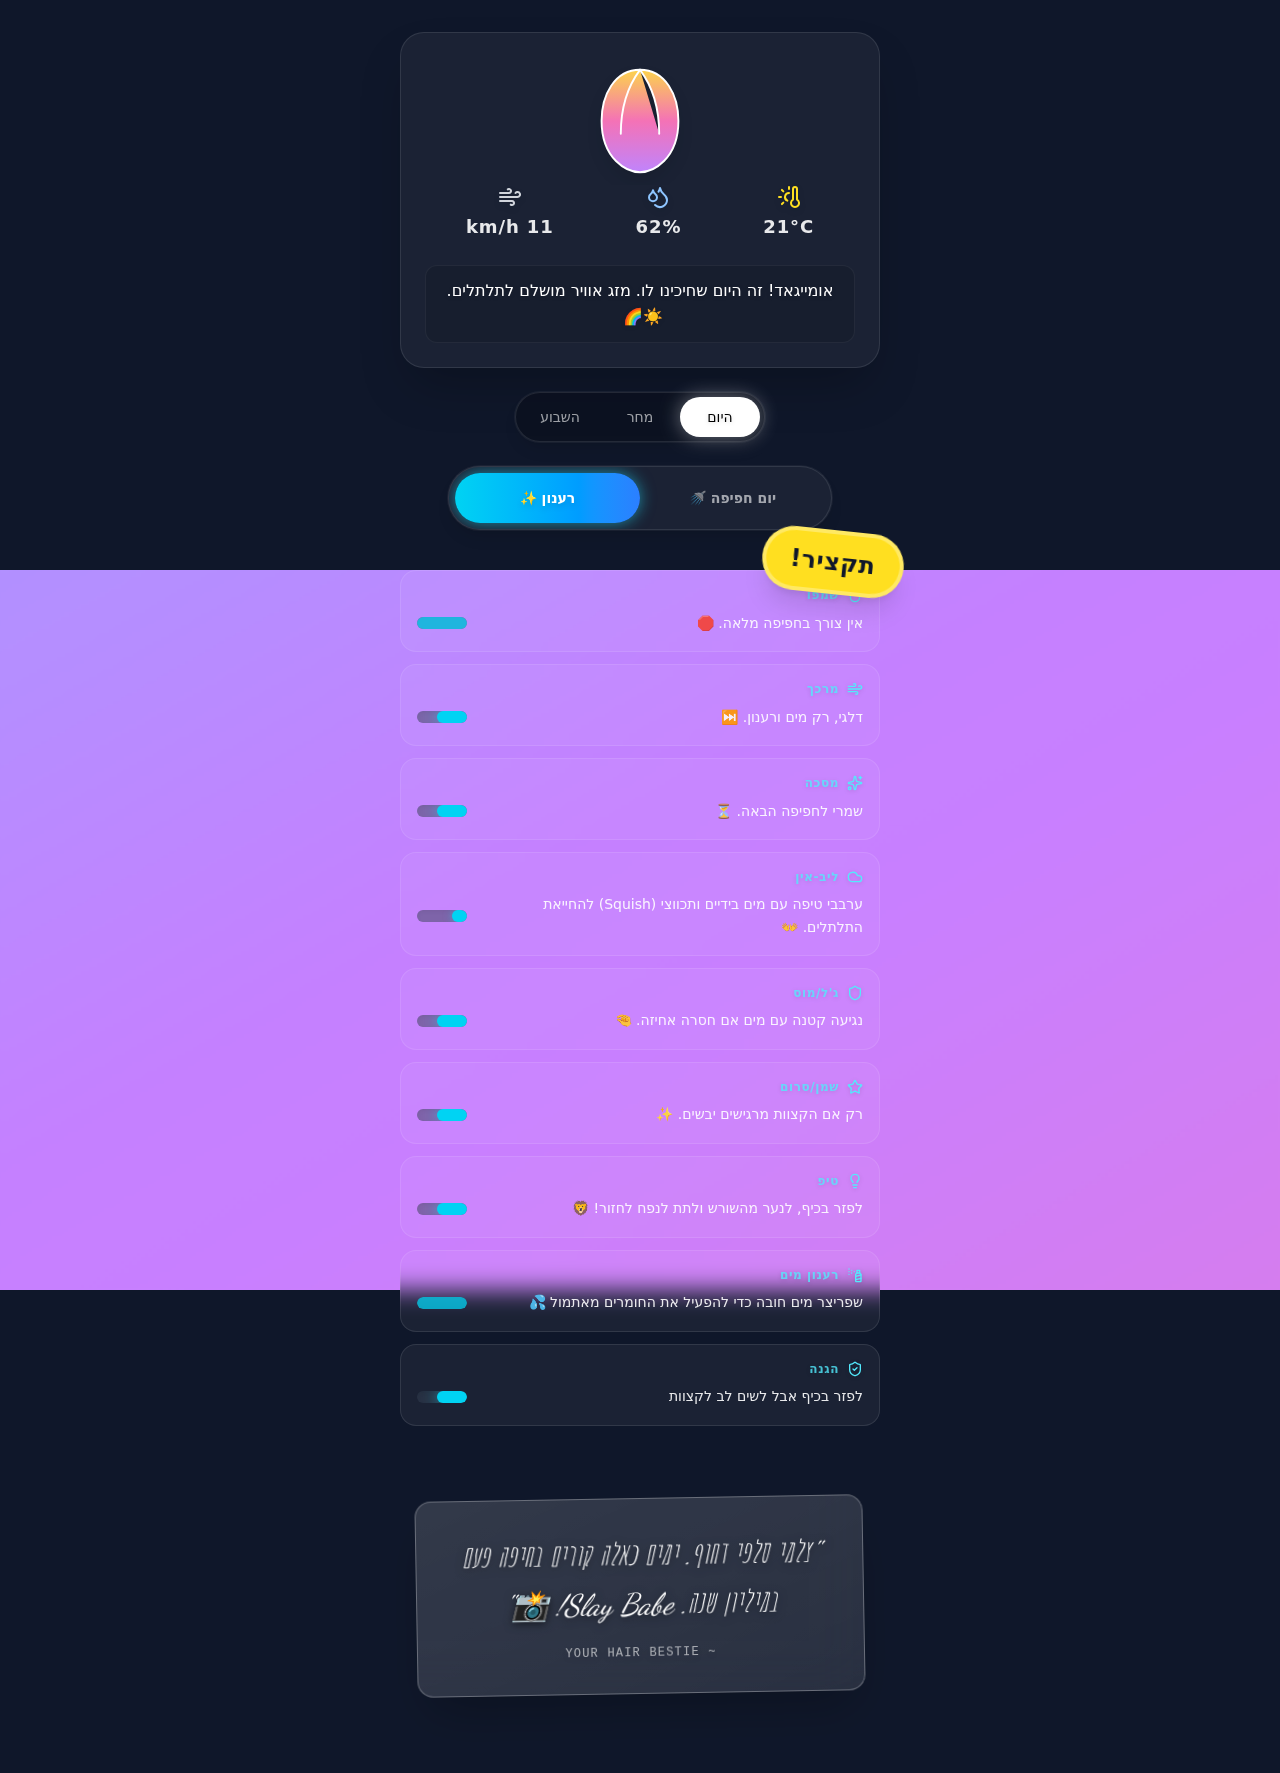
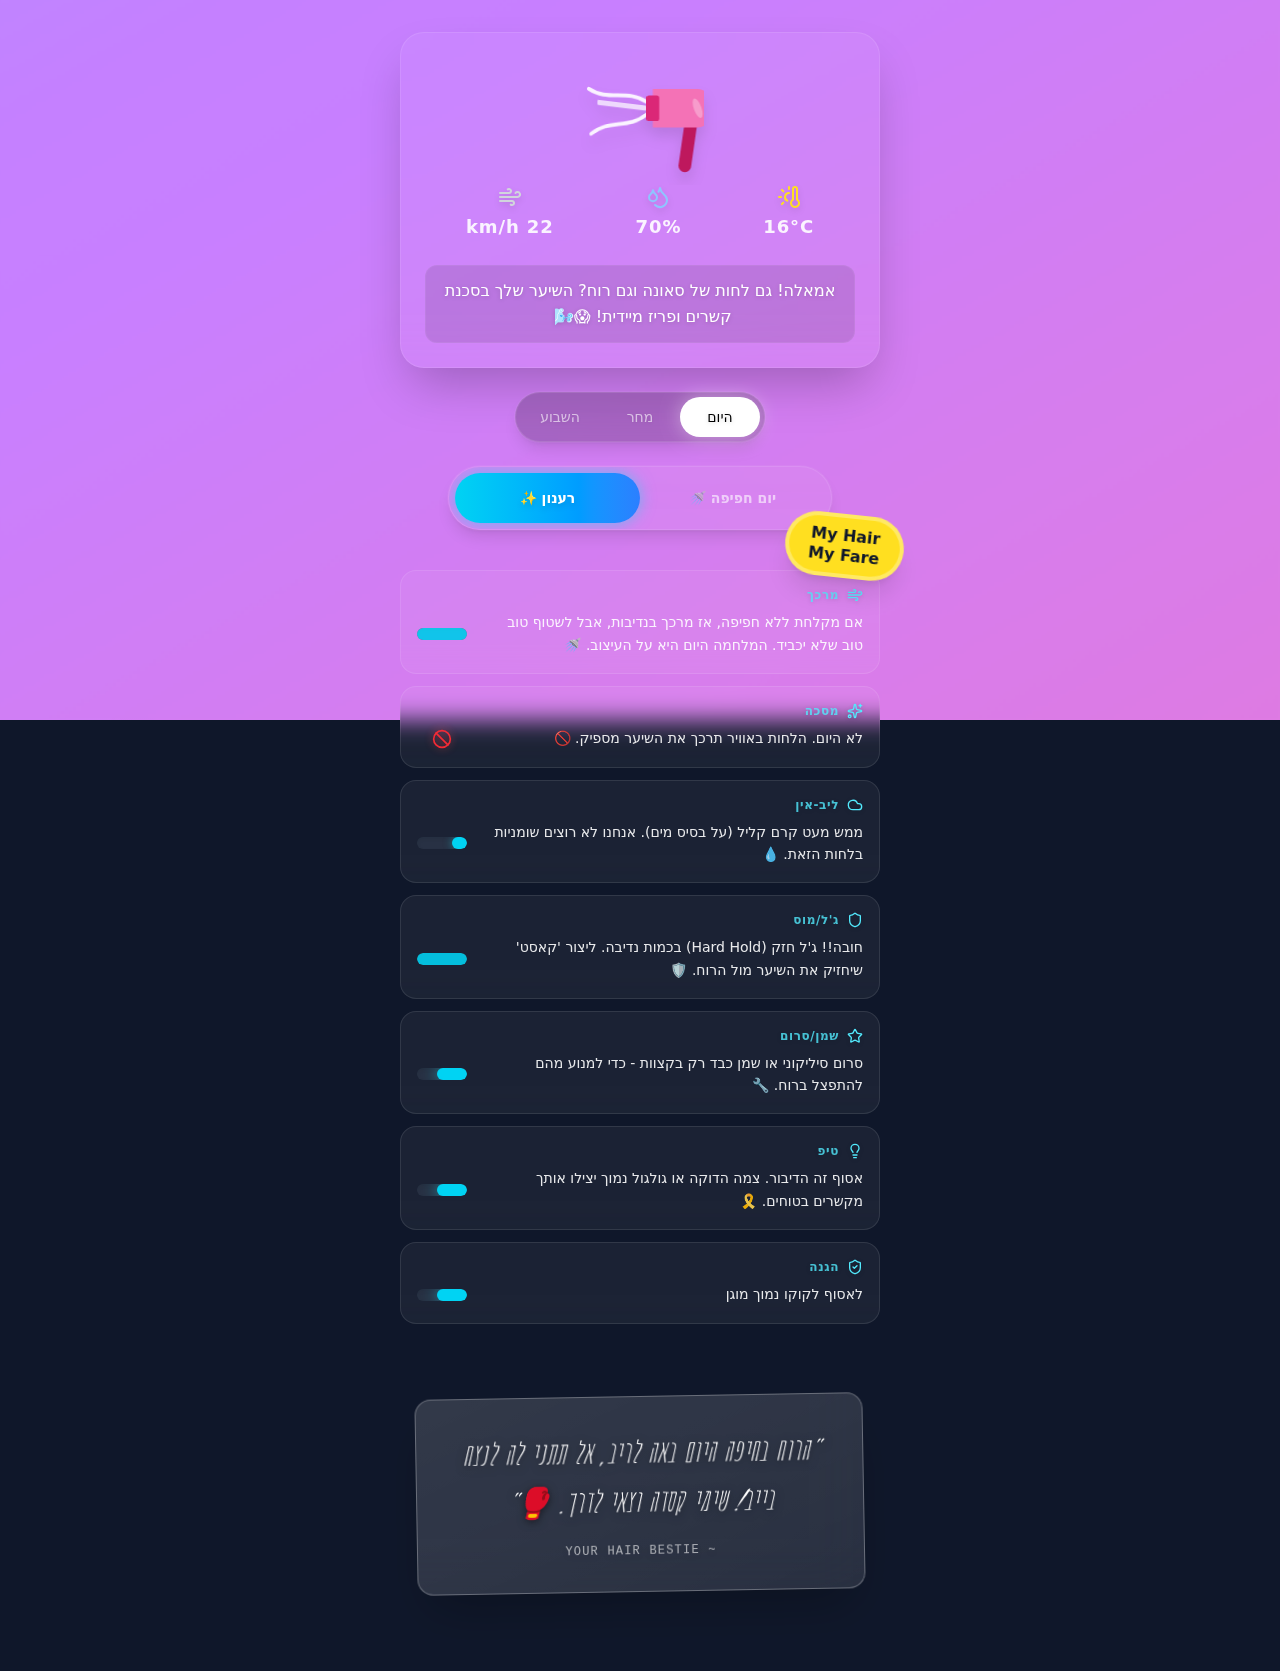
Update weather summary container, yellow sticker, and hair dryer animation

diff --git a/src/components/MainStatusCard.jsx b/src/components/MainStatusCard.jsx
@@ -1,23 +1,8 @@
 import React, { useEffect, useState } from 'react';
 import { Wind, Droplets, ThermometerSun, AlertTriangle } from 'lucide-react';
+import { WEATHER_DATA } from '../data';
 
 const MainStatusCard = ({ data, summaryText, uvAlert, conditionId }) => {
-  // Determine ball color/style based on condition
-  let ballClass = '';
-  switch (conditionId) {
-    case 'PERFECT_DAY':
-      ballClass = 'from-cyan-300 via-blue-400 to-purple-400 shadow-[0_0_30px_rgba(103,232,249,0.6)]';
-      break;
-    case 'SAUNA_STORM':
-      ballClass = 'from-slate-500 via-gray-600 to-slate-700 shadow-[0_0_20px_rgba(100,116,139,0.6)]';
-      break;
-    case 'SAUNA_CALM':
-      ballClass = 'from-orange-200 via-amber-200 to-emerald-200 shadow-[0_0_30px_rgba(251,191,36,0.6)] opacity-80 blur-sm';
-      break;
-    default:
-      ballClass = 'from-gray-300 to-white';
-  }
-
   // Typewriter effect logic
   const [displayedText, setDisplayedText] = useState('');
 
@@ -53,34 +38,67 @@ const MainStatusCard = ({ data, summaryText, uvAlert, conditionId }) => {
         <div className="flex justify-center items-center py-2 relative z-0 h-32 overflow-hidden">
              <style>
                 {`
-                  @keyframes hairWave {
-                    0% { transform: skewX(-15deg) rotate(-5deg); }
-                    50% { transform: skewX(15deg) rotate(5deg); }
-                    100% { transform: skewX(-15deg) rotate(-5deg); }
+                  @keyframes threadFlutter {
+                    0% { transform: scaleX(1) skewY(0deg); }
+                    50% { transform: scaleX(0.9) skewY(15deg); }
+                    100% { transform: scaleX(1) skewY(0deg); }
+                  }
+                  @keyframes threadFlutterReverse {
+                    0% { transform: scaleX(1) skewY(0deg); }
+                    50% { transform: scaleX(0.9) skewY(-15deg); }
+                    100% { transform: scaleX(1) skewY(0deg); }
                   }
                 `}
              </style>
              <svg
                 viewBox="0 0 100 100"
                 className="w-32 h-32 drop-shadow-xl"
-                style={{
-                    animation: `hairWave ${Math.max(0.5, 30 / (parseInt(data.wind) || 5))}s ease-in-out infinite transform-origin-top`
-                }}
              >
-                <path
-                    d="M50 10 C30 10 20 30 20 50 C20 80 40 90 50 90 C60 90 80 80 80 50 C80 30 70 10 50 10 Z M50 10 Q35 30 35 60 M50 10 Q65 30 65 60"
-                    fill="url(#hairGradient)"
-                    stroke="white"
-                    strokeWidth="1.5"
-                    strokeLinecap="round"
-                />
-                <defs>
-                    <linearGradient id="hairGradient" x1="0%" y1="0%" x2="0%" y2="100%">
-                        <stop offset="0%" stopColor="#fcd34d" /> {/* Amber-300 */}
-                        <stop offset="50%" stopColor="#f472b6" /> {/* Pink-400 */}
-                        <stop offset="100%" stopColor="#c084fc" /> {/* Purple-400 */}
-                    </linearGradient>
-                </defs>
+                {/* Threads Group - Positioned at Nozzle */}
+                <g transform="translate(55, 40)">
+                     {/* Thread 1 (Top) */}
+                     <g style={{
+                            animation: `threadFlutter ${Math.max(0.2, 20 / (parseInt(data.wind) || 5))}s ease-in-out infinite`,
+                            transformOrigin: "0 0"
+                        }}>
+                        <path
+                            d="M 0 -5 C -15 -15, -30 -5, -45 -15"
+                            stroke="white" strokeWidth="3" fill="none" strokeLinecap="round" opacity="0.9"
+                        />
+                     </g>
+
+                     {/* Thread 2 (Bottom) */}
+                     <g style={{
+                            animation: `threadFlutterReverse ${Math.max(0.2, 25 / (parseInt(data.wind) || 5))}s ease-in-out infinite`,
+                            transformOrigin: "0 0"
+                        }}>
+                         <path
+                            d="M 0 5 C -15 15, -30 5, -45 15"
+                            stroke="white" strokeWidth="3" fill="none" strokeLinecap="round" opacity="0.9"
+                         />
+                     </g>
+
+                     {/* Thread 3 (Middle/Paper) */}
+                     <g style={{
+                            animation: `threadFlutter ${Math.max(0.2, 15 / (parseInt(data.wind) || 5))}s ease-in-out infinite`,
+                            animationDelay: '0.1s',
+                            transformOrigin: "0 0"
+                        }}>
+                         <rect x="-40" y="-2" width="40" height="4" fill="white" opacity="0.7" rx="1" />
+                     </g>
+                </g>
+
+                {/* Dryer */}
+                <g>
+                  {/* Handle */}
+                  <path d="M85 50 L80 85 A 5 5 0 0 0 90 85 L95 50 Z" fill="#be185d" />
+                  {/* Body */}
+                  <path d="M60 25 H 95 A 10 10 0 0 1 105 35 V 45 A 10 10 0 0 1 95 55 H 60 Z" fill="#f472b6" />
+                  {/* Nozzle */}
+                  <rect x="55" y="30" width="10" height="20" fill="#db2777" rx="2" />
+                  {/* Highlight */}
+                  <ellipse cx="95" cy="40" rx="3" ry="8" fill="rgba(255,255,255,0.3)" transform="rotate(-20 95 40)" />
+                </g>
              </svg>
         </div>
 
@@ -101,8 +119,13 @@ const MainStatusCard = ({ data, summaryText, uvAlert, conditionId }) => {
         </div>
 
         {/* Summary Text (Typewriter) */}
-        <div className="min-h-[60px] text-center relative z-10 bg-black/10 rounded-xl p-3 border border-white/5">
-            <p className="text-sm md:text-base text-white font-medium leading-relaxed drop-shadow-sm font-sans">
+        <div className="relative z-10 bg-black/10 rounded-xl p-3 border border-white/5 text-center">
+            {/* Invisible spacer to maintain height based on longest possible text */}
+            <p className="text-sm md:text-base text-transparent font-medium leading-relaxed font-sans select-none pointer-events-none" aria-hidden="true">
+                {WEATHER_DATA.periods.reduce((max, p) => p.summary_text.length > max.length ? p.summary_text : max, "")}
+            </p>
+            {/* Actual text overlay */}
+            <p className="absolute top-3 left-3 right-3 text-sm md:text-base text-white font-medium leading-relaxed drop-shadow-sm font-sans">
                 {displayedText}<span className="animate-blink">|</span>
             </p>
         </div>

diff --git a/src/components/ProtocolStack.jsx b/src/components/ProtocolStack.jsx
@@ -29,8 +29,8 @@ const ProtocolStack = ({ routine }) => {
   return (
     <div className="flex flex-col gap-3 px-4 pb-12 w-full max-w-lg mx-auto relative">
         {/* Sticker */}
-        <div className="absolute -top-10 -right-2 z-20 rotate-6 bg-yellow-300 text-slate-900 px-6 py-3 rounded-full shadow-xl font-heebo text-2xl font-bold tracking-wide transform hover:scale-105 transition-transform cursor-default border-4 border-white/30 select-none">
-            תקציר!
+        <div className="absolute -top-14 -right-2 z-20 rotate-6 bg-yellow-300 text-slate-900 px-5 py-2 rounded-full shadow-xl font-sans text-base font-bold leading-tight transform hover:scale-105 transition-transform cursor-default border-4 border-white/30 select-none text-center">
+            My Hair<br/>My Fare
         </div>
 
       {items.map((key, index) => {

diff --git a/verify_changes.py b/verify_changes.py
@@ -1,68 +1,28 @@
 from playwright.sync_api import sync_playwright
+import time
 
-def verify_changes():
-    with sync_playwright() as p:
-        browser = p.chromium.launch(headless=True)
-        page = browser.new_page()
-        try:
-            # Increase timeout just in case
-            page.set_default_timeout(10000)
+def verify(page):
+    print("Navigating to page...")
+    page.goto("http://localhost:5173/Hairacolous/")
 
-            print("Navigating to localhost:5173...")
-            page.goto("http://localhost:5173")
-            page.wait_for_load_state("networkidle")
+    print("Waiting for content...")
+    # Wait for the main card to load
+    page.wait_for_selector("div.relative.mx-4")
 
-            # 1. Verify Sticker text
-            print("Checking for sticker...")
-            sticker = page.locator("text=תקציר!")
-            if sticker.is_visible():
-                print("SUCCESS: Sticker 'תקציר!' found and visible.")
-            else:
-                print("FAILURE: Sticker 'תקציר!' NOT found or not visible.")
+    # Allow some time for animations and typewriter
+    time.sleep(3)
 
-            # 2. Verify Refresh Day Routine items
-            print("Switching to Refresh routine...")
-            # Using partial text match or specific locator if needed
-            refresh_btn = page.locator("button", has_text="רענון")
-            refresh_btn.click()
-            page.wait_for_timeout(1000) # Wait for animation/render
-
-            # Check for restored items
-            # Note: The keys map to labels in utils.js
-            # shampoo -> שמפו
-            # conditioner -> מרכך
-            # mask -> מסכה
-            # leave_in -> ליב-אין
-            # gel -> ג'ל/מוס
-            # oil -> שמן/סרום
-            # styling_tip -> טיפ
-            items_to_check = ["שמפו", "מרכך", "מסכה", "ליב-אין", "ג'ל/מוס", "שמן/סרום", "טיפ"]
-            missing_items = []
-            for item in items_to_check:
-                # We check if the label is visible
-                if page.locator(f"text={item}").count() > 0:
-                     print(f"SUCCESS: Item '{item}' found in Refresh routine.")
-                else:
-                     print(f"FAILURE: Item '{item}' NOT found in Refresh routine.")
-                     missing_items.append(item)
-
-            if not missing_items:
-                print("SUCCESS: All products restored in Refresh routine.")
-
-            # 3. Take screenshot
-            page.screenshot(path="verification_screenshot.png", full_page=True)
-            print("Screenshot saved to verification_screenshot.png")
-
-        except Exception as e:
-            print(f"Error: {e}")
-            # Take emergency screenshot
-            try:
-                page.screenshot(path="error_screenshot.png")
-                print("Error screenshot saved.")
-            except:
-                pass
-        finally:
-            browser.close()
+    print("Taking screenshot...")
+    page.screenshot(path="verification_screenshot.png", full_page=True)
+    print("Screenshot saved to verification_screenshot.png")
 
 if __name__ == "__main__":
-    verify_changes()
+    with sync_playwright() as p:
+        browser = p.chromium.launch()
+        page = browser.new_page()
+        try:
+            verify(page)
+        except Exception as e:
+            print(f"Error: {e}")
+        finally:
+            browser.close()
